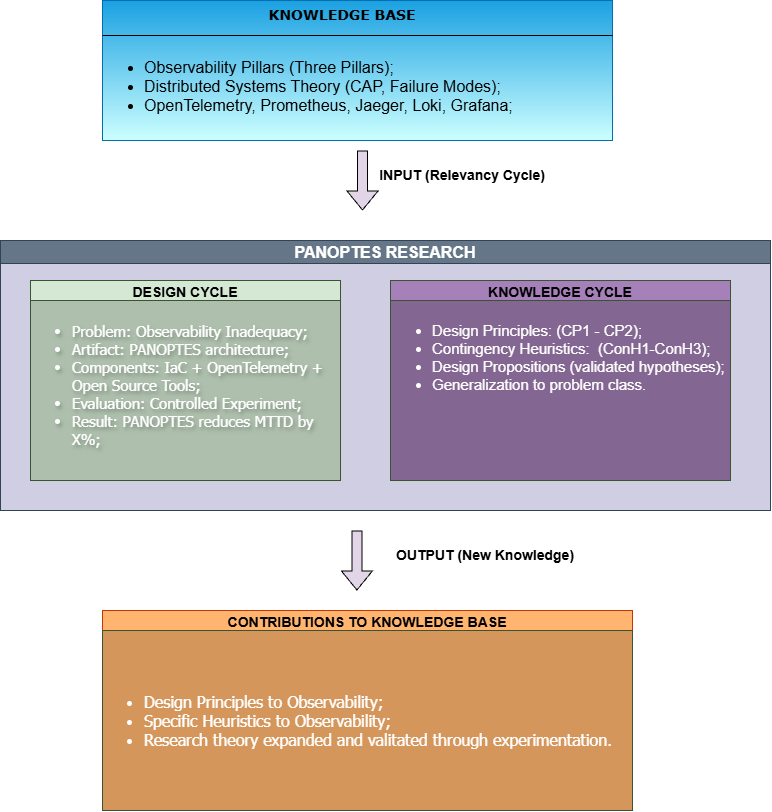
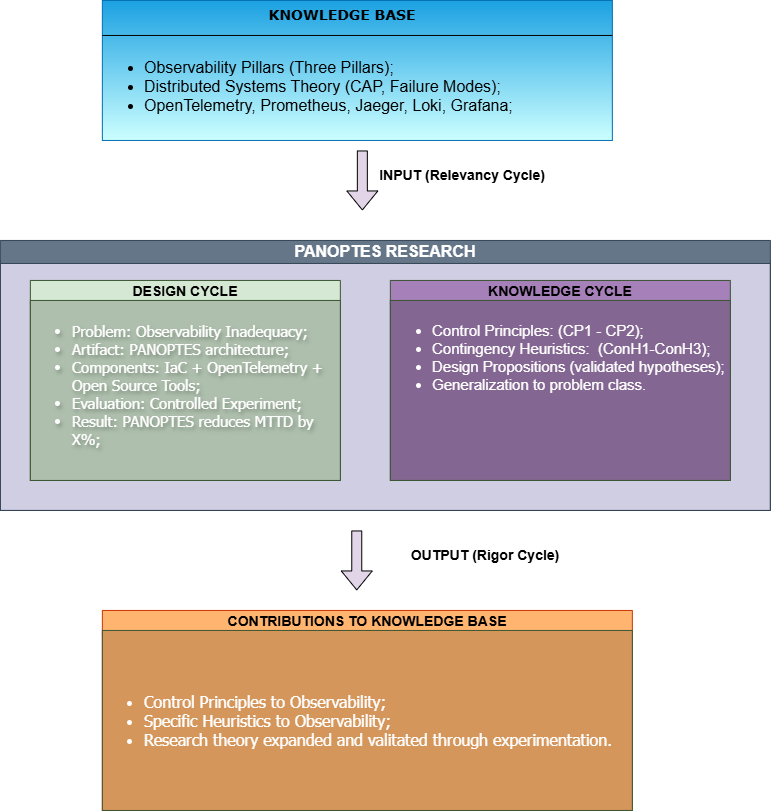
Ajustando as hipoteses e corrigindo os principios do DSR.

diff --git a/chapters/05.methodology/subsections/evaluation/05.statistical-analysis.tex b/chapters/05.methodology/subsections/evaluation/05.statistical-analysis.tex
@@ -1,29 +1,34 @@
 \subsection{Statistical Analysis and Bias Mitigation}
 \label{subsec:statistical-analysis}
 
-A significant threat to the validity of single-researcher experiments is \textit{experimenter bias}, often manifested as confirmation bias, where the researcher subconsciously interprets ambiguous data to favor the hypothesis \cite{wohlin_2012}. In software engineering experiments, this is particularly prevalent when the developer of the artifact (the researcher) also acts as the evaluator of the diagnostic process \cite{sjoberg_2007}.
+A significant threat to the validity of single-researcher experiments is \textit{experimenter bias}, often manifested as confirmation bias, where the researcher subconsciously interprets ambiguous data to favor the hypotheses \cite{wohlin_2012}. In software engineering experiments, this is particularly prevalent when the developer of the artifact (the researcher) also acts as the evaluator of the diagnostic process \cite{sjoberg_2007}.
 
 To mitigate this bias, we rely on operationalization: the transformation of abstract diagnostic concepts into rigid, observable, and predefined criteria \cite{babbie_2020}. This transformation is essential for safeguarding construct validity and eliminating subjectivity from the data collection process \cite{wohlin_2012}. By establishing a strict diagnostic rubric, we ensure that success is determined by verifiable telemetry triggers rather than researcher intuition.
 
-To ensure objective validation, we define success and failure for each experimental scenario:
+To ensure objective validation, we define explicit criteria for diagnostic success and failure across both evaluated workflows:
 
 \begin{itemize}
-    \item \textbf{Vanilla Scenario (CLI-based):} Success is achieved if the researcher locates the injected fault entity (e.g., the specific Pod name that was killed or the network partition event) by filtering the output of \texttt{kubectl get events} or \texttt{kubectl logs} for the service namespace. The timestamp of the log entry containing the fault information is recorded as the detection time. Failure is defined as the inability to identify the cause within a predefined time limit or an incorrect identification.
+    \item \textbf{Vanilla Workflow (CLI-based, Scenario 3):} Success ($Acc = 1$) is achieved if the investigator correctly isolates the specific microservice exhibiting degraded network performance (e.g., establishing that downstream checkout latency is rooted in the \texttt{payment} microservice) using only standard Kubernetes CLI inspection tools (\texttt{kubectl describe}, \texttt{kubectl logs}, \texttt{kubectl top}). The diagnostic timestamp ($T_{\text{diag}}$) is recorded upon verifiable command output extraction. Failure ($Acc = 0$) occurs if the investigator attributes the root cause incorrectly or fails to isolate the dependency within the operational window ($T_{\text{max}} = 300\,\text{s}$). In failure cases, latency is right-censored at $300\,\text{s}$.
     
-    \item \textbf{PANOPTES Scenario (Dashboard-based):} Success is achieved if: (1) the Prometheus Alertmanager triggers an explicit alert (e.g., \textit{PodDown} or \textit{HighLatency}) associated with the fault, or (2) the Grafana interface renders a distributed trace in Tempo where the failing span correlates with the fault injection window, or a log search in Loki returns the specific error message. The presence of these persistent artifacts acts as objective evidence for \textit{post-hoc} validation.
+    \item \textbf{PANOPTES Workflow (Dashboard-based, Scenario 4):} Success ($Acc = 1$) is achieved if the investigator leverages the unified telemetry pipeline to isolate the root cause via persistent correlation artifacts: (1) traversing from an alerting state or Prometheus latency exemplar directly to the affected trace in Grafana Tempo, and (2) confirming the root-cause span duration and associated contextual error logs in Grafana Loki. The diagnostic timestamp ($T_{\text{diag}}$) is recorded upon displaying the correlated trace/log view. If root-cause isolation is not achieved within $T_{\text{max}} = 300\,\text{s}$, the run is marked as a failure ($Acc = 0$) and censored at $300\,\text{s}$.
 \end{itemize}
 
-The collected raw data will undergo formal statistical analysis, guided by the following protocols:
+The empirical datasets generated across all $N = 30$ experimental iterations per scenario will undergo formal inferential statistical analysis, mapped directly to the three research hypotheses:
 
 \begin{enumerate}
-    \item \textbf{Diagnostic Accuracy (Binary Outcome):} To compare success proportions between groups, we employ \textbf{Fisher's Exact Test}. This is the most rigorous choice for binary data in small-to-moderate sample sizes ($N=30$), as it calculates the exact probability of the observed distribution, avoiding the unreliable approximations of the Chi-Square test in cases of sparse data \cite{agresti_2007}.
-    
-    \item \textbf{Performance Metrics (Continuous Outcomes - MTTD, Resource Usage):} We apply a distribution-dependent decision framework \cite{wohlin_2012}:
+    \item \textbf{Diagnostic Accuracy Analysis (Testing $H_{1,2}$):} Binary diagnostic outcomes (Success vs. Failure) are structured into a $2\times2$ contingency table comparing the Vanilla and PANOPTES groups. We employ \textbf{Fisher's Exact Test} (one-tailed, $\alpha = 0.05$). This test provides the exact hypergeometric probability of the observed distribution, eliminating the unreliable approximations of the Chi-Square test in cases of sparse or unbalanced outcomes \cite{agresti_2007}. A statistically significant result ($p < 0.05$) rejects $H_{0,2}$ in favor of $H_{1,2}$.
+
+    \item \textbf{Diagnostic Latency Analysis (Testing $H_{1,1}$):} To evaluate differences in $MTTDiag$ between Scenario 3 and Scenario 4, we employ a distribution-dependent decision framework \cite{wohlin_2012}:
     \begin{enumerate}
-        \item \textbf{Normality Assessment:} All continuous datasets will be subjected to the \textbf{Shapiro-Wilk test} ($\alpha = 0.05$).
-        \item \textbf{Parametric Path:} If the data follows a normal distribution, we will use the \textbf{Independent Samples t-test} to compare group means.
-        \item \textbf{Non-Parametric Path:} If the normality assumption is violated, we will utilize the \textbf{Mann-Whitney U Test}. This approach is robust against outliers and skewed performance distributions, ensuring the validity of our conclusions regarding architectural overhead and diagnostic efficiency \cite{wohlin_2012}.
+        \item \textbf{Normality Assessment:} All latency distributions are evaluated using the \textbf{Shapiro-Wilk test} ($\alpha = 0.05$).
+        \item \textbf{Inferential Test:} If both distributions satisfy normality, we apply the two-sample \textit{Independent Samples t-test} (or \textit{Welch's t-test} under unequal variances). If normality is violated---the expected distribution profile for diagnostic latencies with right-censoring---we apply the non-parametric \textbf{Mann-Whitney U Test} (two-tailed, $\alpha = 0.05$). A directional rank-sum advantage ($p < 0.05$) rejecting $H_{0,1}$ confirms the diagnostic efficiency hypothesis ($H_{1,1}$).
+    \end{enumerate}
+
+    \item \textbf{Bounded Overhead Compliance (Testing $H_{1,3}$):} To test whether the static cost of observability violates the operational tolerance envelope, the aggregate telemetry resource footprint ($R_{\text{PANOPTES}}$ from Scenario 2) is evaluated against the bounded threshold $\theta = 0.15 \cdot \sum R_{\text{workload}}$:
+    \begin{enumerate}
+        \item The distribution of steady-state CPU (millicores) and RAM (RSS MiB) samples is evaluated for normality via the \textbf{Shapiro-Wilk test}.
+        \item We conduct a one-tailed \textbf{One-Sample Wilcoxon Signed-Rank Test} (or a \textit{One-Sample t-test} if normally distributed) against the constant boundary $\theta$. Rejection of $H_{0,3}$ ($p < 0.05$) confirms that the resource overhead introduced by PANOPTES remains statistically bounded within acceptable operational limits ($H_{1,3}$).
     \end{enumerate}
 \end{enumerate}
 
-By combining operationalized diagnostic criteria with exact statistical testing, the experimental design ensures that results are both robust against subjectivity and statistically sound.
+By combining operationalized diagnostic rubrics, right-censoring protocols for investigative timeouts, and exact statistical testing mapped to each hypothesis, the experimental design ensures that results are robust against subjectivity, mathematically sound, and replicable.

diff --git a/chapters/05.methodology/subsections/evaluation/02.research-hypotheses.tex b/chapters/05.methodology/subsections/evaluation/02.research-hypotheses.tex
@@ -1,19 +1,30 @@
 \subsection{Research Hypotheses}
 
-Based on the research objectives, we formulate two primary hypotheses to test the artifact's effectiveness.
+To rigorously evaluate the utility, diagnostic efficiency, and operational feasibility of the PANOPTES reference architecture, we formulate three formal research hypotheses. These hypotheses are grounded in the theoretical dualism between system observability and controllability, addressing the secondary research questions SRQ2 and SRQ3.
 
-\textbf{Hypothesis 1: Diagnostic Efficiency} We postulate that a unified observability architecture reduces the time required to diagnose anomalies.
+Rather than evaluating trivial failure detection at the orchestrator level (e.g., node or pod crashes natively reported by the Kubernetes API Server), our evaluation targets non-trivial, latent distributed anomalies where root-cause isolation requires semantic correlation across multiple telemetry modalities (metrics, traces, and logs).
+
+\textbf{Hypothesis 1: Diagnostic Efficiency (Mean Time to Diagnose --- MTTDiag)}\\
+We postulate that the semantic correlation across distributed traces, contextual logs, and golden signal metrics instantiated in PANOPTES significantly reduces the latency required to isolate the true root cause of distributed anomalies compared to standard Kubernetes CLI-based inspection.
 \begin{itemize}
-    \item $H_{0a}$: There is no significant difference in Mean Time to Detect (MTTD) between Vanilla Kubernetes and PANOPTES.
-    \item $H_{1a}$: PANOPTES significantly reduces MTTD compared to Vanilla Kubernetes.
+    \item $H_{0,1}$ (Null Hypothesis): There is no statistically significant difference in the Mean Time to Diagnose ($MTTDiag$) between standard Kubernetes CLI-based diagnostic workflows and the PANOPTES architecture during latent failure scenarios ($MTTDiag_{\text{PANOPTES}} \ge MTTDiag_{\text{Vanilla}}$).
+    \item $H_{1,1}$ (Alternative Hypothesis): The PANOPTES reference architecture yields a statistically significant reduction in the Mean Time to Diagnose ($MTTDiag$) compared to standard Kubernetes CLI-based diagnostic workflows ($MTTDiag_{\text{PANOPTES}} < MTTDiag_{\text{Vanilla}}$).
 \end{itemize}
 
-\textbf{Hypothesis 2: Resource Overhead} We postulate that the observability stack introduces an overhead, which must be statistically quantified.
+\textbf{Hypothesis 2: Diagnostic Accuracy in Latent Faults}\\
+In distributed microservice topologies, partial degradations (such as injected network delays or cascade timeouts) frequently manifest without orchestrator-level events (e.g., pods remain in the \texttt{Running} state without triggering crash loops). We postulate that unified multi-pillar observability provides complete causal context, yielding a significantly higher probability of correct root-cause identification within a defined operational time window ($T_{\text{max}} = 300\,\text{s}$).
 \begin{itemize}
-    \item $H_{0b}$: The resource overhead (CPU/Memory) introduced by the PANOPTES architecture is not statistically significant compared to the baseline.
-    \item $H_{1b}$: The PANOPTES architecture introduces a statistically significant resource overhead compared to the baseline.
+    \item $H_{0,2}$ (Null Hypothesis): The proportion of successful root-cause diagnoses ($p_1$) achieved using the PANOPTES architecture is equal to or less than the proportion ($p_0$) achieved through native Kubernetes inspection tools ($p_1 \le p_0$).
+    \item $H_{1,2}$ (Alternative Hypothesis): The proportion of successful root-cause diagnoses achieved using the PANOPTES architecture is strictly higher than that achieved through native Kubernetes inspection tools ($p_1 > p_0$).
 \end{itemize}
 
-\textit{Operational Acceptance Criterion:} While the formal hypothesis ($H_{1b}$) tests for statistical significance, an operational threshold is required to determine the architecture's viability. Guided by the \textit{Google SRE Book} principles on management overhead \cite{beyer_2016}, we establish that an observability architecture is considered practically viable if its resource footprint does not induce \textit{resource contention} or \textit{latency degradation} in the monitored microservices.
+\textbf{Hypothesis 3: Bounded Resource Overhead (Operational Envelope)}\\
+Deploying telemetry forwarders, collectors, and storage backends inevitably introduces computational overhead over a raw Kubernetes installation. Therefore, testing for a mere non-zero difference in resource consumption ($Vanilla < PANOPTES$) is academically trivial and provides no scientific value.
 
-Specifically, we establish that the telemetry stack must consume resources within the bounds of the \textit{resource requests} defined for the target microservices. This criterion is theoretically grounded in Kubernetes scheduling and resource management models \cite{bernstein_2014}: as \textit{requests} represent the guaranteed allocation for the business logic, any observability overhead that consistently exceeds this baseline triggers \textit{resource contention}, effectively competing with the application's defined SLO (Service Level Objective). Therefore, an architecture that maintains an overhead lower than the microservice's \textit{request} footprint ensures that the observability stack remains an auxiliary, non-intrusive component, preserving the cluster's efficiency and preventing \textit{noisy neighbor} effects in the virtualized testbed.
+Instead, grounded in the capacity planning guidelines of the \textit{Google SRE Book} \cite{beyer_2016} and Kubernetes scheduling primitives \cite{bernstein_2014}, we evaluate a \textit{Bounded Overhead Hypothesis}: the architecture is considered operationally viable if its aggregate resource footprint remains strictly confined within a bounded envelope ($\theta$) proportional to the baseline resource requests of the monitored microservices workload.
+\begin{itemize}
+    \item $H_{0,3}$ (Null Hypothesis): The steady-state aggregate resource footprint (CPU cores and RSS memory) introduced by the PANOPTES telemetry stack exceeds the operational tolerance threshold of $\theta = 15\%$ of the total workload resource allocation ($R_{\text{PANOPTES}} > \theta \cdot R_{\text{workload}}$).
+    \item $H_{1,3}$ (Alternative Hypothesis): The steady-state aggregate resource footprint of the PANOPTES stack remains strictly contained within the operational tolerance threshold ($R_{\text{PANOPTES}} \le \theta \cdot R_{\text{workload}}$), verifying non-intrusiveness and preventing \textit{noisy neighbor} contention in resource-constrained environments.
+\end{itemize}
+
+\textit{Operational Acceptance Criterion:} While $H_{1,1}$ and $H_{1,2}$ establish statistical superiority in fault isolation and $H_{1,3}$ tests the bounded envelope, an operational criterion is enforced to guarantee runtime non-interference. Guided by the principles of management overhead \cite{beyer_2016}, any observability overhead that consistently exceeds the application's defined resource requests triggers \textit{resource contention}, effectively competing with the application's defined SLO (Service Level Objective). Conforming to $H_{1,3}$ guarantees that the observability stack remains an auxiliary, non-intrusive component, preserving cluster efficiency and ensuring internal validity during comparative experimental evaluations.

diff --git a/chapters/05.methodology/subsections/evaluation/04.metrics.tex b/chapters/05.methodology/subsections/evaluation/04.metrics.tex
@@ -1,12 +1,46 @@
 \subsection{Metrics and Measurement}
 \label{sec:metrics}
 
-Regarding the analytical framework, the collected data will be subjected to the following formal statistical protocol:
-
-For Diagnostic Accuracy (Categorical Data), it is employed \textit{Fisher's Exact Test} to compare success proportions between the Vanilla and PANOPTES groups. This test is the most rigorous choice for binary outcomes (Success/Failure) in the defined sample size ($N=30$), as it calculates the exact probability of the observed distribution, avoiding the unreliable approximations of the Chi-Square test in cases of sparse data \cite{agresti_2007}.
-
-For Performance Metrics (Continuous Data, such as MTTD, CPU, and Memory utilization), the data distribution will be assessed using the \textit{Shapiro-Wilk test} ($\alpha = 0.05$). If the data satisfies the normality assumption, the Independent Samples t-test will be applied  to compare group means. Should the data violate the normality assumption—a common occurrence in cloud-native performance benchmarking—we will utilize the \textit{Mann-Whitney U Test}. This non-parametric approach is inherently robust against outliers and skewed distributions, ensuring that conclusions regarding performance overhead and diagnostic efficiency are statistically grounded, reproducible, and immune to criticisms regarding data distribution assumptions.
-
-To quantify the results, we utilize two categories of metrics, as defined in Table \ref{tab:metrics}.
+To evaluate the three formulated research hypotheses ($H_{1,1}$, $H_{1,2}$, and $H_{1,3}$) with scientific rigor and eliminate observational bias, we establish an analytical framework combining continuous, categorical, and bounded operational metrics, as summarized in Table~\ref{tab:metrics}.
 
 \input{chapters/05.methodology/tables/metrics.tex}
+
+\textbf{Analytical and Statistical Protocol}
+
+The empirical datasets gathered across all experimental scenarios ($N = 30$ runs per scenario) are evaluated under the following inferential criteria:
+\begin{itemize}
+    \item \textbf{Diagnostic Accuracy ($Acc$, Testing $H_{1,2}$):} Evaluated as a binary categorical variable ($1 = \text{Success}, 0 = \text{Failure}$) based on the investigator's ability to identify the injected root-cause locus within the maximum operational window ($T_{\text{max}} = 300\,\text{s}$). Differences in diagnostic success rates between the Vanilla baseline (Scenario 3) and PANOPTES (Scenario 4) are evaluated using \textit{Fisher's Exact Test} ($2\times2$ contingency table), ensuring exact conditional probabilities without relying on asymptotic $\chi^2$ approximations \cite{agresti_2007}.
+    
+    \item \textbf{Diagnostic Efficiency ($MTTDiag$, Testing $H_{1,1}$):} Diagnostic duration represents continuous ratio data. Distribution normality is formally assessed via the \textit{Shapiro-Wilk test} ($\alpha = 0.05$). When normality is violated---a structural property of latency and troubleshooting durations in distributed systems---we employ the non-parametric \textit{Mann-Whitney U Test} (two-tailed, $\alpha = 0.05$) to evaluate whether the rank-sum distribution of $MTTDiag_{\text{PANOPTES}}$ is stochastically smaller than $MTTDiag_{\text{Vanilla}}$ \cite{wohlin_2012}.
+    
+    \item \textbf{Bounded Overhead Compliance ($\Delta_{CPU}, \Delta_{RAM}$, Testing $H_{1,3}$):} To test whether the static cost of observability violates the operational tolerance envelope ($\theta = 0.15 \cdot \sum R_{\text{requests}}$), the net overhead of the PANOPTES stack ($R_{\text{PANOPTES}} = R_{\text{S2}} - R_{\text{S1}}$) is evaluated using a one-tailed, one-sample hypothesis test (\textit{One-Sample Wilcoxon Signed-Rank Test} if non-normal, or \textit{One-Sample $t$-test} if normal) against the constant boundary $\theta$.
+\end{itemize}
+
+\textbf{Diagnostic Latency Operationalization (MTTDiag vs. MTTD)}
+
+A critical methodological requirement in evaluating diagnostic efficiency is strictly separating initial fault detection ($T_{\text{detect}}$) from verified root-cause diagnosis ($T_{\text{diag}}$). In complex cloud-native architectures, an initial alarm or container event simply signals an outward disturbance, whereas isolating the true failing component (e.g., distinguishing a downstream database or network delay from upstream application timeouts) requires multi-signal inspection.
+
+The Mean Time to Diagnose ($MTTDiag$) for each iteration is computed as:
+\begin{equation}
+    MTTDiag = T_{\text{diag}} - T_0
+\end{equation}
+where $T_0$ is the authoritative epoch timestamp of the Chaos Mesh injection acknowledgment returned by the Kubernetes API Server. If an iteration reaches $T_{\text{max}} = 300\,\text{s}$ without isolating the exact root cause, it is registered as an investigative failure ($Acc = 0$) and its latency is right-censored at $300\,\text{s}$ for non-parametric survival evaluations.
+
+\textbf{Comparative Diagnostic Workflow Protocol}
+
+To ensure unbiased and reproducible measurement of $T_{\text{diag}}$ across Scenarios 3 and 4, the evaluation enforces two strictly controlled workflows:
+
+\begin{enumerate}
+    \item \textbf{Vanilla Diagnostic Workflow (Scenario 3):} Operators are restricted to native Kubernetes CLI primitives (\texttt{kubectl get}, \texttt{kubectl describe}, \texttt{kubectl logs}, and \texttt{kubectl top}). The diagnostic timestamp ($T_{\text{diag}}$) is registered the moment the operator successfully isolates the failing microservice dependency and identifies the anomaly signature within the raw container log streams or node-level descriptions.
+    
+    \item \textbf{PANOPTES Diagnostic Workflow (Scenario 4):} Operators conduct investigations via the Grafana Single Pane of Glass. The diagnostic timestamp ($T_{\text{diag}}$) is recorded when the operator traverses the correlated telemetry pipeline---transitioning from a Prometheus latency threshold alert or exemplar directly to the culprit span in Grafana Tempo, cross-referenced with corresponding LogQL entries in Loki.
+\end{enumerate}
+
+\textbf{Automated Telemetry Capture and Lifecycle}
+
+To prevent observer-induced interference during baseline execution, data persistence and timing extractions are managed out-of-band:
+\begin{itemize}
+    \item \textbf{Timestamp Persistence:} The test orchestration suite automates injection via Chaos Mesh, recording $T_0$ directly from the API Server state machine into a standardized CSV record (\texttt{experiment-results.csv}).
+    \item \textbf{Resource Profiling:} Cluster-wide CPU and RSS memory consumption are captured at regular $5\,\text{s}$ intervals using the Kubernetes Metrics Server in Scenario 1 and the Prometheus exporter pipeline in Scenario 2, ensuring stable steady-state quantification for overhead modeling.
+    \item \textbf{Post-Processing and Reproducibility:} At the conclusion of the $N = 30$ iterations per scenario, the recorded datasets are processed using an offline Python analysis pipeline (backed by \textit{SciPy} and \textit{Pandas}). This pipeline computes the Shapiro-Wilk distribution metrics, conducts the Mann-Whitney U rank-sum evaluations, computes Fisher's Exact contingency tables, and verifies the one-sample bounded overhead inequalities presented in Chapter~\ref{chap:experiment-implementation}.
+\end{itemize}

diff --git a/chapters/05.methodology/subsections/evaluation/03.experimental-design.tex b/chapters/05.methodology/subsections/evaluation/03.experimental-design.tex
@@ -1,29 +1,22 @@
 \subsection{Experimental Design}
 \label{sec:experimental-design}
 
-To test the formulated hypotheses, a $2\times2$ Factorial Design will be adopted, crossing two independent variables: Architecture Type (Vanilla vs. PANOPTES) and System State (Idle vs. Chaos). This results in four distinct experimental scenarios. To ensure statistical power and account for transient variations in the virtualization environment, each scenario involving fault injection will be executed in $N=30$ independent runs. This sample size is chosen to satisfy the Central Limit Theorem, allowing for robust statistical analysis. This results in four distinct experimental scenarios, as detailed in Table \ref{tab:scenarios}.
+To test the three formulated research hypotheses ($H_{1,1}$, $H_{1,2}$, and $H_{1,3}$), we adopt a $2\times2$ Factorial Design that crosses two independent variables: \textbf{Architecture Type} (\textit{Vanilla Kubernetes} vs. \textit{PANOPTES}) and \textbf{System State} (\textit{Idle Baseline} vs. \textit{Chaos/Fault Injection}). 
+
+This factorial structure establishes four mutually exclusive experimental scenarios, detailed in Table \ref{tab:scenarios}. To achieve statistical power, mitigate the influence of transient virtualization noise, and fulfill the distributional assumptions required for robust inferential statistics, each scenario is executed across $N = 30$ independent runs. The sample size ($N = 30$) satisfies the Central Limit Theorem and provides sufficient power for both parametric tests and non-parametric rank-sum evaluations.
 
 \input{chapters/05.methodology/tables/scenarios}
 
-Regarding the analytical framework, the collected data will be subjected to the following formal statistical protocol:
+The technical configuration, analytical objective, and specific hypothesis addressed by each experimental scenario are defined as follows:
 
-The detailed configuration for each scenario is defined as follows:
 \begin{itemize}
-    \item \textbf{Scenario 1 (Baseline/Idle):} Standard Kubernetes without observability agents. Serves as the reference point for calculating overhead ($R_{base}$). Resource consumption is measured using the native Kubernetes Metrics Server to avoid observer effect.
-    \item \textbf{Scenario 2 (PANOPTES/Idle):} Kubernetes with the full PANOPTES stack instantiated (OpenTelemetry, Prometheus, Loki, Tempo). Comparing S2 vs. S1 isolates the specific overhead introduced by the artifact.
-    \item \textbf{Scenario 3 (Baseline/Stress):} Vanilla environment subjected to Chaos Engineering (e.g., Pod Kill). Diagnosis is attempted using only native CLI tools and unstructured logs.
-    \item \textbf{Scenario 4 (PANOPTES/Stress):} PANOPTES environment subjected to the same faults. Diagnosis is performed using the proposed observability dashboards.
+    \item \textbf{Scenario 1 (Vanilla / Idle --- Control Baseline):} Standard, minimal Kubernetes environment running the target microservices workload without external observability agents. Telemetry persistence and monitoring rely exclusively on the native Kubernetes Metrics Server and container runtime streams. This scenario serves as the baseline reference point for resource footprint ($R_{\text{workload}}$), completely free from observer-induced overhead.
+    
+    \item \textbf{Scenario 2 (PANOPTES / Idle --- Static Overhead Evaluation):} Kubernetes environment running the exact same microservices workload alongside the instantiated PANOPTES telemetry stack (OpenTelemetry Collector, Prometheus, Grafana Loki, and Grafana Tempo). Comparing Scenario 2 directly against Scenario 1 isolates the net resource consumption of the observability platform ($R_{\text{PANOPTES}}$), providing the empirical data required to test the \textbf{Bounded Resource Overhead Hypothesis ($H_{1,3}$)} against the operational boundary ($\theta = 15\%$).
+    
+    \item \textbf{Scenario 3 (Vanilla / Stress --- Native Diagnostic Control):} The vanilla Kubernetes cluster is subjected to non-trivial fault injection campaigns orchestrated via Chaos Mesh (e.g., service-level network latency injection and latent cascade timeouts). Diagnostic investigations are conducted using native, unstructured CLI inspection workflows (\texttt{kubectl describe}, \texttt{kubectl logs}, \texttt{kubectl get events}). This scenario measures baseline diagnostic latency ($MTTDiag_{\text{Vanilla}}$) and native diagnostic accuracy ($Acc_{\text{Vanilla}}$).
+    
+    \item \textbf{Scenario 4 (PANOPTES / Stress --- Correlated Diagnostic Evaluation):} The PANOPTES-instrumented cluster is subjected to identical fault injection profiles under deterministic workload conditions. The operator conducts root-cause analysis leveraging the unified \textit{Single Pane of Glass}, utilizing metric-to-trace exemplars and Trace-to-Logs contextual deep linking. Evaluating Scenario 4 against Scenario 3 provides the comparative dataset used to test the \textbf{Diagnostic Efficiency Hypothesis ($H_{1,1}$)} and the \textbf{Diagnostic Accuracy Hypothesis ($H_{1,2}$)}.
 \end{itemize}
 
-\subsection{Metrics and Measurement}
-\label{sec:metrics}
-
-Regarding the analytical framework, the collected data will be subjected to the following formal statistical protocol:
-
-For Diagnostic Accuracy (Categorical Data), it is employed \textit{Fisher's Exact Test} to compare success proportions between the Vanilla and PANOPTES groups. This test is the most rigorous choice for binary outcomes (Success/Failure) in the defined sample size ($N=30$), as it calculates the exact probability of the observed distribution, avoiding the unreliable approximations of the Chi-Square test in cases of sparse data \cite{agresti_2007}.
-
-For Performance Metrics (Continuous Data, such as MTTD, CPU, and Memory utilization), the data distribution will be assessed using the \textit{Shapiro-Wilk test} ($\alpha = 0.05$). If the data satisfies the normality assumption, the Independent Samples t-test will be applied  to compare group means. Should the data violate the normality assumption—a common occurrence in cloud-native performance benchmarking—we will utilize the \textit{Mann-Whitney U Test}. This non-parametric approach is inherently robust against outliers and skewed distributions, ensuring that conclusions regarding performance overhead and diagnostic efficiency are statistically grounded, reproducible, and immune to criticisms regarding data distribution assumptions.
-
-To quantify the results, we utilize two categories of metrics, as defined in Table \ref{tab:metrics}.
-
-\input{chapters/05.methodology/tables/metrics.tex}
+By crossing system states with architecture types, this experimental design isolates confounding environmental variables, ensuring that measured differences in diagnostic speed, diagnostic success rate, and resource utilization are strictly attributable to the architectural contributions of PANOPTES.

diff --git a/chapters/05.methodology/subsections/evaluation/06.data-collection.tex b/chapters/05.methodology/subsections/evaluation/06.data-collection.tex
@@ -1,9 +1,23 @@
 \subsection{Instrumentation and Data Collection}
 \label{sec:data-collection}
 
-The data collection process is automated to ensure reproducibility:
+The data collection and experimental instrumentation pipelines are fully codified and automated to ensure scientific reproducibility, eliminate operator variance, and mitigate observer-induced interference across all $N = 30$ iterations:
+
 \begin{itemize}
-    \item \textbf{Instrumentation:} For the overhead analysis, resource metrics are collected via two distinct methods to avoid observer effect in the baseline. In Scenario 1 (Vanilla), we utilize the Kubernetes Metrics Server (native). In Scenario 2 (PANOPTES), we utilize the \textit{kube-prometheus-stack}, which is part of the evaluated architecture.
-    \item \textbf{Fault Injection:} Chaos Mesh is configured with distinct experiments (NetworkChaos, PodChaos) defined as YAML manifests.
-    \item \textbf{Load Generation:} We utilize \textbf{k6} to simulate deterministic user traffic, ensuring the system is processing requests when faults occur.
+    \item \textbf{Resource Overhead Profiling (Testing $H_{1,3}$):} To measure the static cost of observability without triggering the observer effect in the control baseline, resource metrics are captured via differential mechanisms:
+    \begin{itemize}
+        \item \textit{Scenario 1 (Vanilla Baseline):} CPU and memory consumption are queried out-of-band via the native Kubernetes Metrics Server API at regular $5\,\text{s}$ intervals. This ensures zero telemetry forwarder overhead within the monitored microservices namespaces.
+        \item \textit{Scenario 2 (PANOPTES):} Resource utilization across the \texttt{monitoring} namespace (hosting the OpenTelemetry Collector, Prometheus, Loki, Promtail, and Tempo pods) is captured continuously via the \texttt{container\_cpu\_usage\_seconds\_total} and \texttt{container\_memory\_rss} metrics exposed by cAdvisor and scraped by Prometheus. The resulting time-series vectors are exported to CSV format for subsequent bounded overhead evaluation against $\theta = 0.15 \cdot \sum R_{\text{workload}}$.
+    \end{itemize}
+
+    \item \textbf{Fault Injection Instrumentation (Testing $H_{1,1}$ and $H_{1,2}$):} Controlled perturbations are orchestrated programmatically via Chaos Mesh Custom Resource Definitions (CRDs). The primary injection profile employs a \texttt{NetworkChaos} manifest targeting the \texttt{payment} microservice with an induced network latency of $250\,\text{ms}$ ($\pm 50\,\text{ms}$ jitter, correlation of $25\%$, in \texttt{direction: to} and \texttt{mode: all}). The injection process synchronizes cluster state, enforces a $30\,\text{s}$ pre-injection stabilization window, and extracts the authoritative API Server acknowledgment timestamp ($T_0$) directly from the Custom Resource metadata in Unix epoch format.
+
+    \item \textbf{Diagnostic Traceability and Latency Logging:} Diagnostic workflows across Scenarios 3 and 4 are instrumented with strict timestamp capture:
+    \begin{itemize}
+        \item In Scenario 3 (Vanilla), the investigator's CLI execution sequence is logged, capturing the precise timestamp ($T_{\text{diag}}$) when the root-cause service is successfully identified from unstructured container logs or descriptions.
+        \item In Scenario 4 (PANOPTES), the Grafana correlation workflow captures the timestamp ($T_{\text{diag}}$) upon rendering the correlated Tempo trace and contextual Loki error log originating from the Prometheus latency threshold violation.
+        \item All diagnostic records are appended to an experiment audit file (\texttt{experiment-results.csv}), documenting iteration id, $T_0$, $T_{\text{diag}}$, computed $MTTDiag = T_{\text{diag}} - T_0$, and binary accuracy outcome ($Acc \in \{0, 1\}$).
+    \end{itemize}
+
+    \item \textbf{Target Workload and Load Generation:} The evaluated workload is instantiated using the polyglot OpenTelemetry Astronomy Shop demo. Steady-state traffic is generated by the application's native, continuous \texttt{loadgenerator} service, which simulates concurrent synthetic user sessions (browsing products, shopping cart operations, and checkout sequences). Operating under a predictable, deterministic synthetic load profile ensures that the microservices transactions are actively traversing the inter-service network when latency anomalies are introduced.
 \end{itemize}
